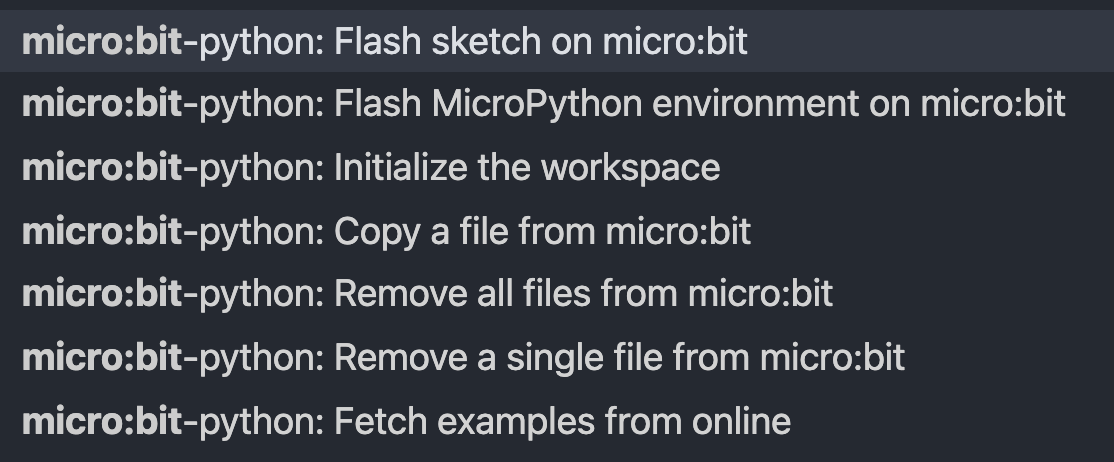
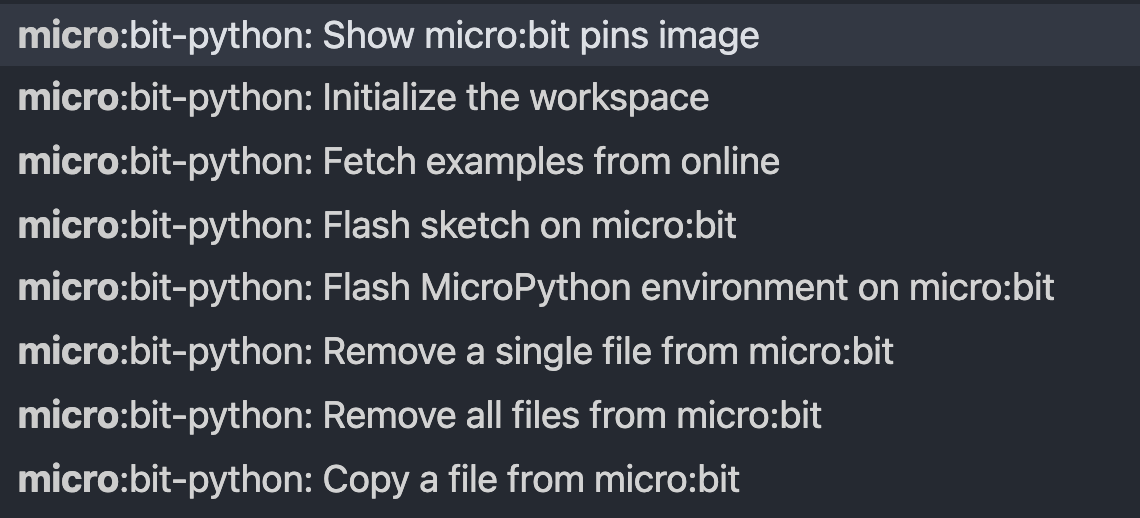
Added show image pins commands

Changed region(s): [[0.0, 0.1515, 0.9767, 0.8485], [0.0, 0.8788, 0.7325, 0.9697], [0.0, 0.0303, 0.6715, 0.1212]]

diff --git a/src/main.js b/src/main.js
@@ -188,6 +188,26 @@ function activate(context) {
   });
 
 
+  const showPinMap = vscode.commands.registerCommand('extension.showPinMap', async function () {
+
+    const panel = vscode.window.createWebviewPanel(
+      'pins',
+      'micro:bit Pins',
+      vscode.ViewColumn.Active, {
+      // Only allow the webview to access resources in our extension's media directory
+      localResourceRoots: [vscode.Uri.joinPath(extensionUri(), "images")]
+    }
+    );
+
+    const onDiskPath = vscode.Uri.file(
+      vscode.Uri.joinPath(extensionUri(), "images", "pinout.png").fsPath
+    );
+    const imageUrl = panel.webview.asWebviewUri(onDiskPath);
+
+    panel.webview.html = ui.getPinMap(imageUrl);
+  });
+
+
   // COMMANDS
   context.subscriptions.push(init);
   context.subscriptions.push(fetchExamples);
@@ -196,6 +216,7 @@ function activate(context) {
   context.subscriptions.push(rmAll);
   context.subscriptions.push(rmFile);
   context.subscriptions.push(getFile);
+  context.subscriptions.push(showPinMap);
 
 }
 

diff --git a/src/ui.js b/src/ui.js
@@ -84,6 +84,30 @@ function outError(msg) {
   output.appendLine(`ERROR ${date}\n${msg}\n`);
 }
 
+/**
+ * Get image map (as in https://github.com/cpwood/Pico-Go)
+ * @param {vscode.Uri} imageUrl 
+ * @returns html cod eto render the image in a separte tab
+ */
+function getPinMap(imageUrl) {
+  return `<!DOCTYPE html>
+    <html lang="en">
+    <head>
+        <meta charset="UTF-8">
+        <meta name="viewport" content="width=device-width, initial-scale=1.0">
+        <title>Pico Pin Map</title>
+        <style type="text/css">
+            body {
+                background-color: #191c2b;
+            }
+        </style>
+    </head>
+    <body>
+        <img src="${imageUrl}" />
+    </body>
+    </html>`;
+}
+
 
 
 module.exports = {
@@ -93,5 +117,6 @@ module.exports = {
   showInputBox,
   confirmationMessage,
   outInfo,
-  outError
+  outError,
+  getPinMap
 };

diff --git a/README.md b/README.md
@@ -77,6 +77,12 @@ This command prompts the user to choose a file to remove from the micro:bit file
 
 Under the hood, the command uses the `ufs rm` command.
 
+### `Show micro:bit pins image`
+
+It shows the image with the micro:bit pinout
+
+<img src="images/pinout.png" height="200" />
+
 ---
 
 ## Requirments
@@ -96,14 +102,6 @@ If you want to modify this extension, fork then clone this repository on your ma
 ## Known Issues
 
 Refer to the [issues page](https://github.com/makinteract/vscode-microbit-micropython/issues). Please file any issues there.
-
----
-
-## Releases Notes
-
-**0.1.0**
-
-Initial release
 
 ---
 

diff --git a/CHANGELOG.md b/CHANGELOG.md
@@ -4,6 +4,7 @@ All notable changes to the "vscode-microbit-micropython" extension will be docum
 
 ## [0.1.x]
 
+- Added command to show image of micro:bit pinout (0.1.6)
 - Few more interface bugs + video tutorial link (0.1.5)
 - Fixing python dependency (0.1.4)
 - Improved README and fixed critical dependency python code (0.1.3)
